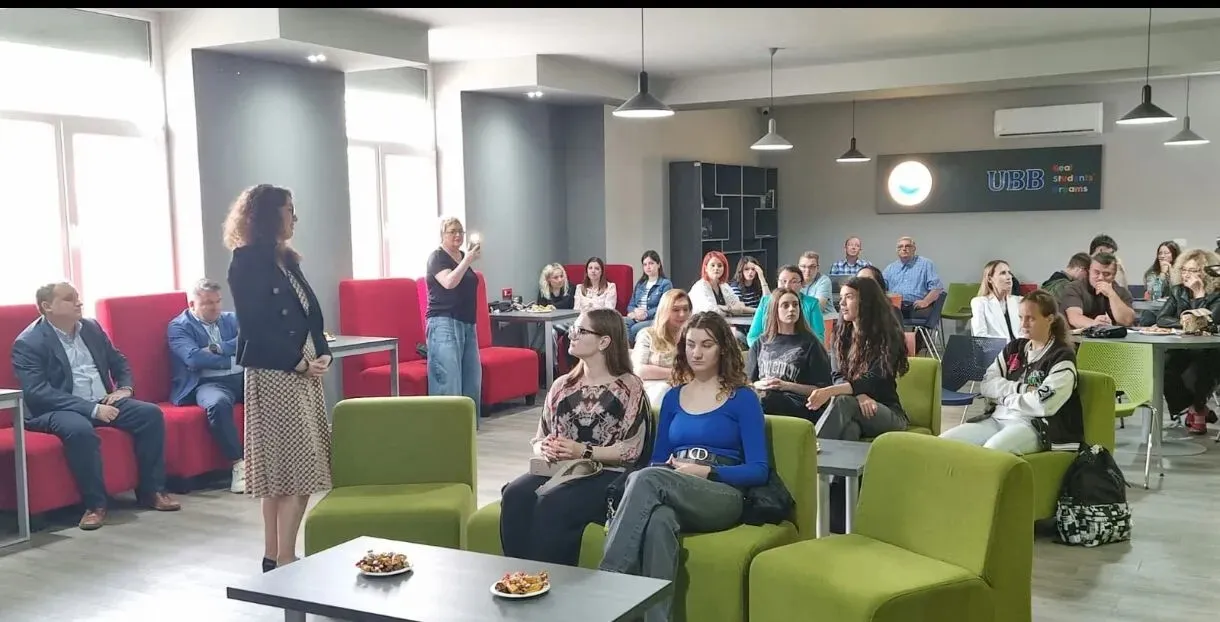
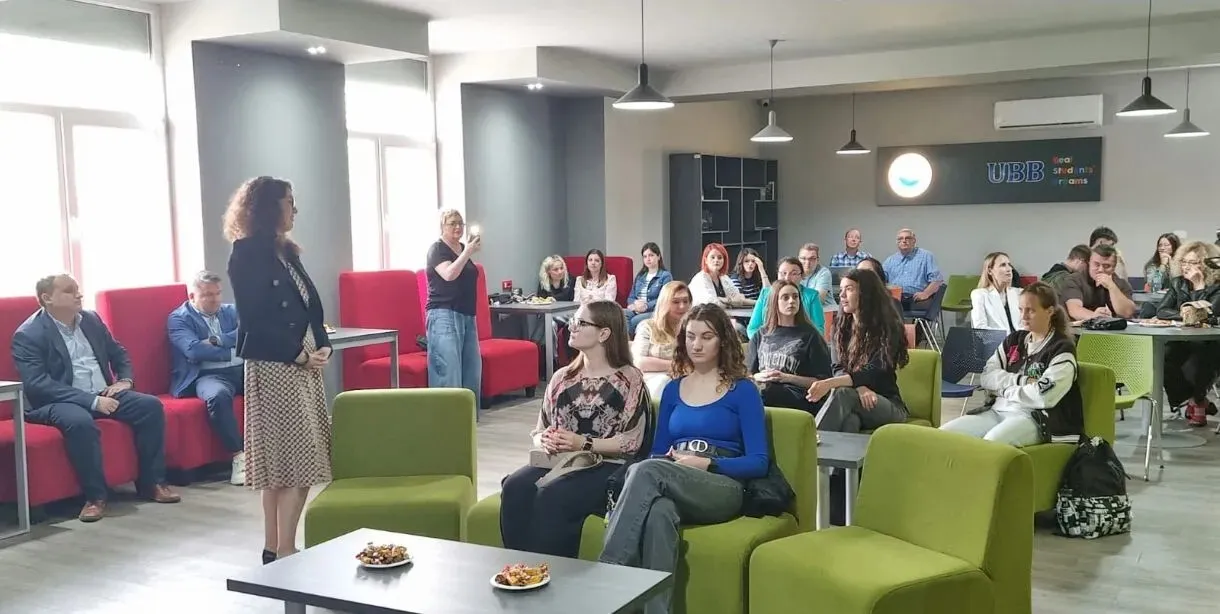
style(website): fit FOI photos to the text column, drop captions
Removes the black band at the top of the workshop photo, anchors the
conference photo to the top of its frame, caps the pair at the paragraph
width, and removes the captions (the paragraphs above describe both).
Alt text stays.

Claude-Session: https://claude.ai/code/session_011NkPBzsMJAdPAxD1cjzYan

diff --git a/src/app/freedom-of-information/page.tsx b/src/app/freedom-of-information/page.tsx
@@ -27,12 +27,12 @@ const photos = [
   {
     src: "/images/raluca-spataru-conference.webp",
     alt: "Raluca Spataru speaking with a microphone to a small group seated around a round table",
-    caption: "Raluca Spataru speaking at a workshop on FOI requests.",
+    position: "object-top",
   },
   {
     src: "/images/foi-workshop-audience.webp",
     alt: "Workshop participants seated in a meeting space, listening to Raluca Spataru presenting",
-    caption: "Raluca Spataru presenting the FOI initiative to participants.",
+    position: "object-center",
   },
 ];
 
@@ -139,22 +139,20 @@ export default async function FreedomOfInformationPage() {
 
       {/* Photos */}
       <section className="bg-brand-navy/[0.04] px-8 md:px-16 py-20 md:py-28 border-t border-brand-black/10">
-        <div className="max-w-4xl mx-auto grid grid-cols-1 md:grid-cols-2 gap-8">
+        <div className="max-w-2xl grid grid-cols-1 md:grid-cols-2 gap-4">
           {photos.map((photo) => (
-            <figure key={photo.src} className="flex flex-col gap-3">
-              <div className="relative w-full aspect-[4/3] rounded-sm overflow-hidden">
-                <Image
-                  src={photo.src}
-                  alt={photo.alt}
-                  fill
-                  className="object-cover"
-                  sizes="(max-width: 768px) 100vw, 448px"
-                />
-              </div>
-              <figcaption className="text-base font-light text-brand-navy/80">
-                {photo.caption}
-              </figcaption>
-            </figure>
+            <div
+              key={photo.src}
+              className="relative w-full aspect-[4/3] rounded-sm overflow-hidden"
+            >
+              <Image
+                src={photo.src}
+                alt={photo.alt}
+                fill
+                className={`object-cover ${photo.position}`}
+                sizes="(max-width: 768px) 100vw, 326px"
+              />
+            </div>
           ))}
         </div>
       </section>
